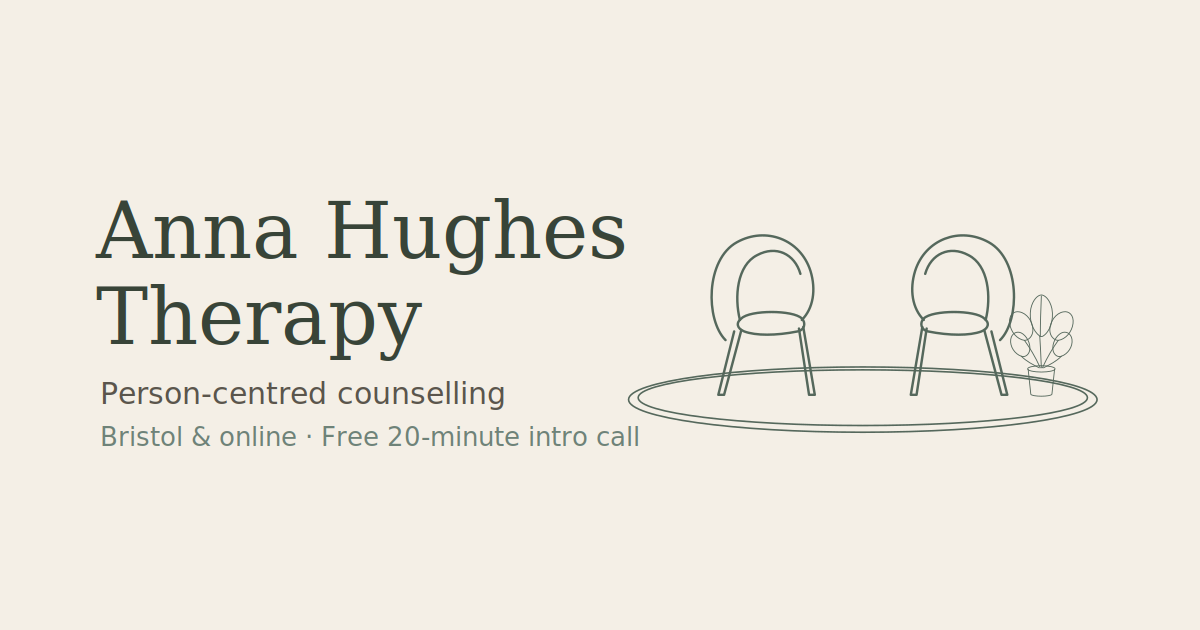
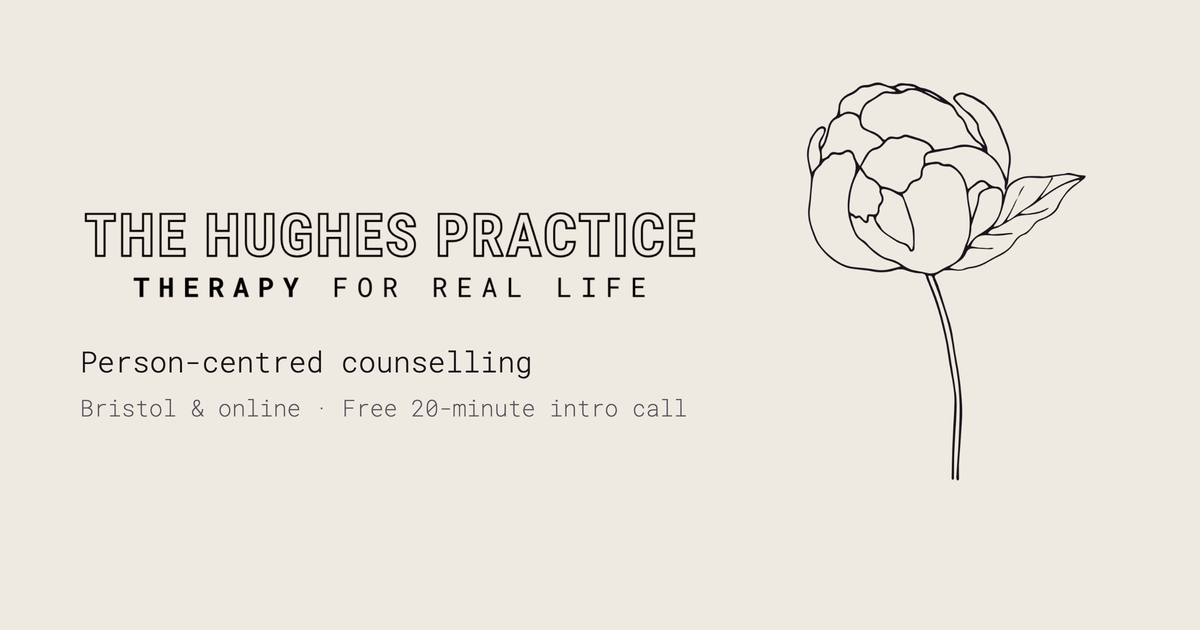
Replace outdated og-image with current Hughes Practice branding
The share-preview image still carried the old Anna Hughes Therapy
design. Rebuilt at 1200x630 from the current logo, peony illustration
and brand palette; bumped the og:image URLs (?v=2) so link scrapers
refetch instead of serving their cached copy.

Changed region(s): [[0.0617, 0.2714, 0.925, 0.754], [0.6783, 0.1206, 0.8325, 0.3317], [0.6167, 0.3619, 0.7092, 0.4524]]

diff --git a/index.html b/index.html
@@ -20,14 +20,14 @@
 <meta property="og:title" content="The Hughes Practice — Therapy for real life">
 <meta property="og:description" content="A calm, unhurried space to talk things through — at your pace, without judgement. Free 20-minute introductory call. Bristol & online.">
 <meta property="og:url" content="https://www.thehughespractice.co.uk/">
-<meta property="og:image" content="https://www.thehughespractice.co.uk/og-image.png">
+<meta property="og:image" content="https://www.thehughespractice.co.uk/og-image.png?v=2">
 <meta property="og:image:width" content="1200">
 <meta property="og:image:height" content="630">
 <meta property="og:locale" content="en_GB">
 <meta name="twitter:card" content="summary_large_image">
 <meta name="twitter:title" content="The Hughes Practice — Therapy for real life">
 <meta name="twitter:description" content="A calm, unhurried space to talk things through. Free 20-minute introductory call. Bristol & online.">
-<meta name="twitter:image" content="https://www.thehughespractice.co.uk/og-image.png">
+<meta name="twitter:image" content="https://www.thehughespractice.co.uk/og-image.png?v=2">
 <link rel="preconnect" href="https://fonts.googleapis.com">
 <link rel="preconnect" href="https://fonts.gstatic.com" crossorigin>
 <link href="https://fonts.googleapis.com/css2?family=Roboto+Mono:ital,wght@0,200;0,300;0,400;0,500;0,600;1,200;1,300&display=swap" rel="stylesheet">

diff --git a/person-centred-counselling.html b/person-centred-counselling.html
@@ -14,7 +14,7 @@
 <meta property="og:title" content="What is person-centred counselling? A plain guide">
 <meta property="og:description" content="A clear, jargon-free guide to person-centred counselling — what it is, how it works, and how it can help.">
 <meta property="og:url" content="https://www.thehughespractice.co.uk/person-centred-counselling.html">
-<meta property="og:image" content="https://www.thehughespractice.co.uk/og-image.png">
+<meta property="og:image" content="https://www.thehughespractice.co.uk/og-image.png?v=2">
 <meta property="og:locale" content="en_GB">
 <meta name="twitter:card" content="summary_large_image">
 <link rel="preconnect" href="https://fonts.googleapis.com">

diff --git a/walk-and-talk-therapy.html b/walk-and-talk-therapy.html
@@ -14,7 +14,7 @@
 <meta property="og:title" content="Walk and Talk therapy in Bristol">
 <meta property="og:description" content="Counselling that takes place on a gentle walk, out in nature around Bristol. How it works and why it helps.">
 <meta property="og:url" content="https://www.thehughespractice.co.uk/walk-and-talk-therapy.html">
-<meta property="og:image" content="https://www.thehughespractice.co.uk/og-image.png">
+<meta property="og:image" content="https://www.thehughespractice.co.uk/og-image.png?v=2">
 <meta property="og:locale" content="en_GB">
 <meta name="twitter:card" content="summary_large_image">
 <link rel="preconnect" href="https://fonts.googleapis.com">
